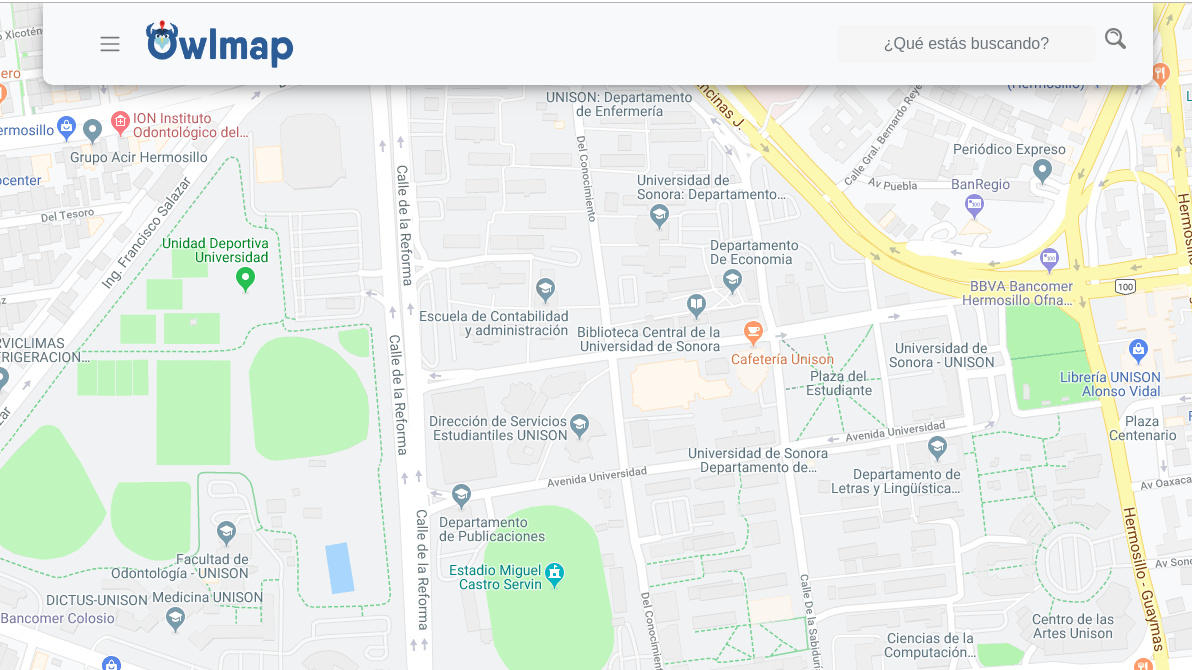
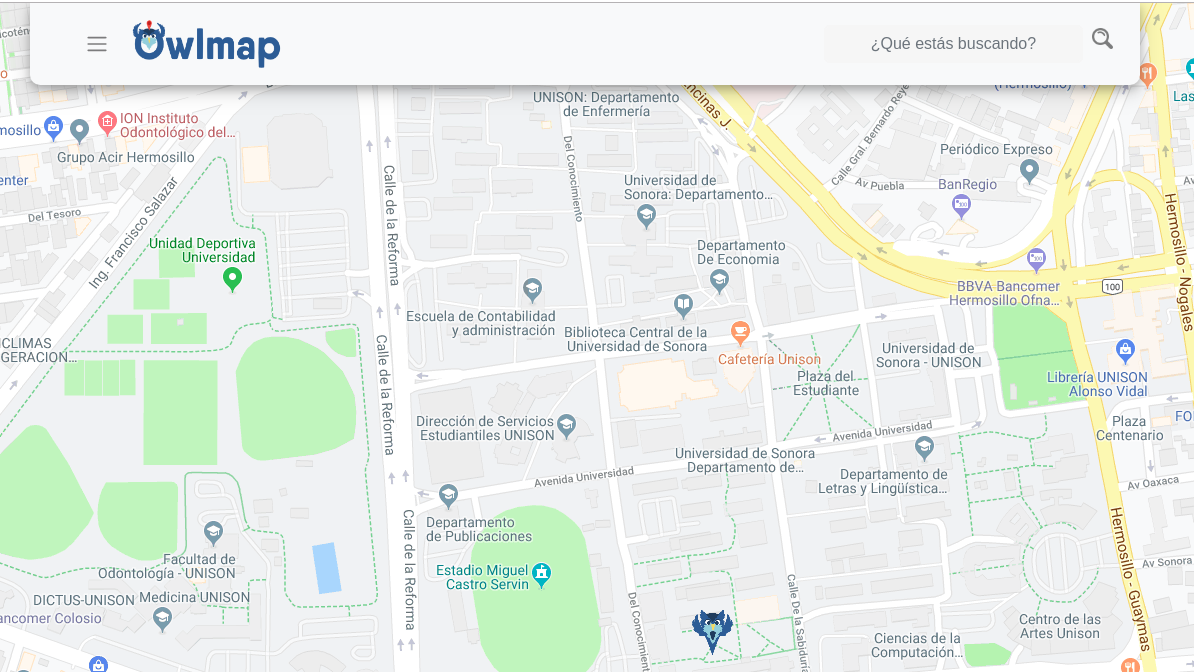
Match de maestros

diff --git a/owlmap/forms.py b/owlmap/forms.py
@@ -42,7 +42,7 @@ class RegistrationFormCubSal(FlaskForm):
 
 
 class RegistrationFormMaestro(FlaskForm):
-    exp = StringField('Expediente', validators=[Length(min=10, max=20), DataRequired()],
+    exp = StringField('Expediente', validators=[Length(min=8, max=12), DataRequired()],
             render_kw={"placeholder": "Expediente"})
     cubo = StringField('Cubiculo', validators=[DataRequired()],
             render_kw={"placeholder": "Cubículo"})

diff --git a/ManualUsuario.md b/ManualUsuario.md
@@ -7,7 +7,7 @@ El propósito de la aplicación web es contar con un buscador especializado para
 
 ### 2.- Guía de Inicio
 #### 2.1.- Visualizar mapa
-Owlmap permite al usuario ver un mapa del campus de la Universidad de Sonora (campus Hermosillo); para poder visualizarlo, basta con ingresar a la página principal.
+Owlmap permite al usuario ver un mapa del campus de la Universidad de Sonora (campus Hermosillo); para poder visualizarlo, basta con ingresar a la página principal; un marcador con forma de búho aparecerá señalando la ubicación actual.
 
 ![](/Capturas/CU2.1.png "Visualizar mapa")
 
@@ -21,6 +21,10 @@ Una vez aquí, basta con escribir el lugar a buscar y dar clic en la lupa que se
 ![](/Capturas/CU3.2.png "Usar buscador")
 
 #### 2.3.- Visualizar ruta
+Owlmap permite al usuario visualizar la ruta comprendida desde la ubicación actual hasta la ubicación del punto deseado; para ello es necesario utilizar el buscador _(ver 2.2)_, una vez buscado el punto deseado, basta con dar clic en el ícono de ruta.
+
+![](/Capturas/CU4.1.png "Ver ruta")
+
 #### 2.4.- Iniciar sesión
 Owlmap permite a un usuario identificarse como administrador por medio del inicio de sesión.
 Para iniciar sesión dentro de la aplicación basta con desplegar el menú situado en la esquina superior izquierda, y seleccionar la opción "Iniciar sesión".  
